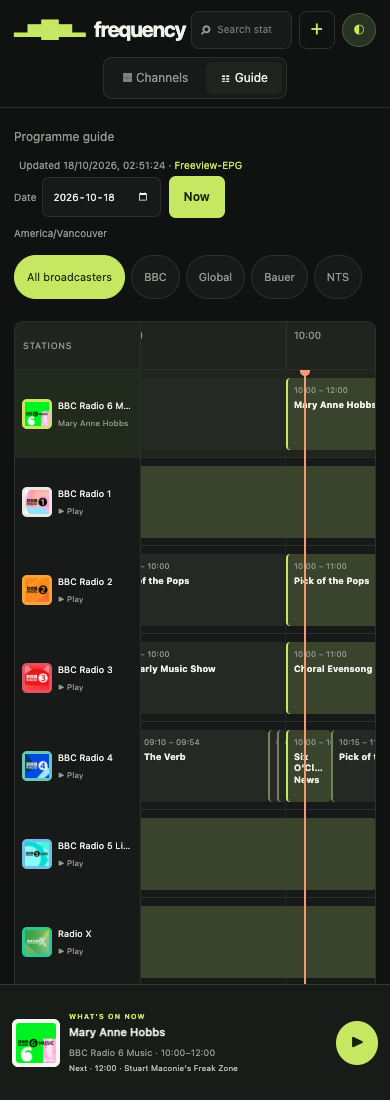
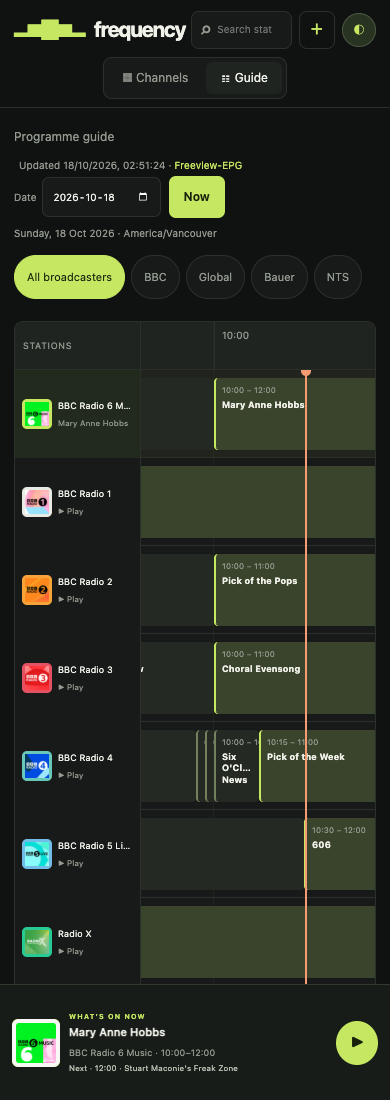
Reset the guide timeline when its date changes

diff --git a/app/public/entry.tsx b/app/public/entry.tsx
@@ -35,7 +35,7 @@ function App(handle: Handle) {
   let playbackState:PlaybackState={status:'idle',message:''}
   let favouritesDialog:HTMLDialogElement, programmeDialog:HTMLDialogElement
   let schedules:Schedule[]=[], scheduleLoading=true, scheduleFailed=false, clock=Date.now(), guideDate=dateInput(), programme:Programme|null=null
-  let timeline:HTMLDivElement|undefined, positionTimeline=false, metadataKey=''
+  let timeline:HTMLDivElement|undefined, metadataKey=''
   const firstUse=loadSaved('frequency.favourites',null)===null && !loadSaved('frequency.favouritesSetup',false)
   let initialized=false
   const time=(value:number)=>new Date(value).toLocaleTimeString([], {hour:'2-digit',minute:'2-digit'})
@@ -59,14 +59,16 @@ function App(handle: Handle) {
     const artwork=current?.artwork??selected.logoUrl
     navigator.mediaSession.metadata=new MediaMetadata({title:current?.title??selected.title,artist:selected.title,artwork:artwork?[{src:new URL(artwork,document.baseURI).href}]:[]})
   }
-  function changeView(next:string){view=next;if(next==='Guide')positionTimeline=true;update()}
-  function jumpNow(){guideDate=dateInput();positionTimeline=true;update()}
+  function changeView(next:string){view=next;const refreshed=update();if(next==='Guide')void refreshed.then(positionGuideDate)}
+  function selectGuideDate(value:string){if(!value)return;guideDate=value;void update().then(positionGuideDate)}
+  function jumpNow(){guideDate=dateInput();void update().then(positionGuideDate)}
   function positionAtNow(){
     if(!timeline)return
     const stationColumn=Number.parseFloat(getComputedStyle(document.documentElement).getPropertyValue('--station-column'))||220
     const inset=Math.min(300,Math.max(60,(timeline.clientWidth-stationColumn)*0.7))
     timeline.scrollLeft=Math.max(0,(Date.now()-localDay(guideDate).start)*180/3600000-inset)
   }
+  function positionGuideDate(){requestAnimationFrame(()=>{if(!timeline)return;if(guideDate===dateInput())positionAtNow();else timeline.scrollLeft=0})}
   function showProgramme(value:Programme){programme=value;void update().then(()=>programmeDialog.showModal())}
   function playProgramme(){const activeProgramme=programme;if(!activeProgramme)return;const station=allItems().find(i=>i.id===activeProgramme.stationId);if(station)void play(station)}
   function scheduleText(id:string){return info(id).current?.title??(scheduleLoading?'Loading schedule…':'Schedule unavailable')}
@@ -183,8 +185,8 @@ function App(handle: Handle) {
       {view==='Channels'?<div>
         <section class="favourites-section"><div class="section-heading"><h2>Favourites <span class="section-count">{favouritesList.length}</span></h2><button class="quiet-action" mix={on('click',()=>favouritesDialog.showModal())}>Edit favourites</button></div>{favouritesList.length?<div class="favourites-grid">{favouritesList.map(card)}</div>:<button class="favourites-empty" mix={on('click',()=>favouritesDialog.showModal())}>♡ <span>Add favourites <small>Choose stations for quick access.</small></span><span>＋</span></button>}</section>
         <section><div class="section-heading"><h2>Stations</h2><span class="section-count">{live.filter(i=>!favourites.includes(i.id)).length}</span></div>{filters()}<div class="card-grid">{live.filter(i=>!favourites.includes(i.id)).map(card)}</div>{!live.length?<p class="empty-message">No stations match your search.</p>:null}</section>
-      </div>:<section class="guide"><div class="guide-controls"><label>Date <input aria-label="Guide date" type="date" value={guideDate} mix={on('change',e=>{if(e.currentTarget.value){guideDate=e.currentTarget.value;positionTimeline=true;update()}})}/></label><button class="primary" mix={on('click',jumpNow)}>Now</button><span>{timezone}</span></div>{filters()}
-        <div class="timeline" aria-label="Station schedule timeline" tabIndex={0} mix={[ref(node=>{timeline=node;if(positionTimeline){positionTimeline=false;requestAnimationFrame(()=>{if(timeline){if(guideDate===dateInput())positionAtNow();else timeline.scrollLeft=0}})}}),on('keydown',event=>{if(event.target===event.currentTarget&&['ArrowLeft','ArrowRight'].includes(event.key)){event.preventDefault();event.stopPropagation();event.currentTarget.scrollLeft+=event.key==='ArrowRight'?180:-180}})]}>
+      </div>:<section class="guide"><div class="guide-controls"><label>Date <input aria-label="Guide date" type="date" value={guideDate} mix={on('change',e=>selectGuideDate(e.currentTarget.value))}/></label><button class="primary" mix={on('click',jumpNow)}>Now</button><span class="date-summary">{new Date(day.start).toLocaleDateString([], {weekday:'long',month:'short',day:'numeric',year:'numeric'})} · {timezone}</span></div>{filters()}
+        <div class="timeline" aria-label="Station schedule timeline" tabIndex={0} mix={[ref(node=>{timeline=node}),on('keydown',event=>{if(event.target===event.currentTarget&&['ArrowLeft','ArrowRight'].includes(event.key)){event.preventDefault();event.stopPropagation();event.currentTarget.scrollLeft+=event.key==='ArrowRight'?180:-180}})]}>
           <div class="timeline-content" style={{width:`calc(var(--station-column) + ${width}px)`}}><div class="timeline-header"><div class="station-heading">Stations</div><div class="time-ruler" style={{width:`${width}px`}}>{hours.map(hour=><span key={hour} style={{left:`${(hour-day.start)*scale}px`}}>{time(hour)}</span>)}</div></div>
           {rows.map(item=>{const listings=programmes().filter(p=>p.stationId===item.id&&p.end>day.start&&p.start<day.end);const stationInfo=info(item.id);return <div class={selected?.id===item.id?'timeline-row active':'timeline-row'} key={item.id}><button class="station-cell" aria-label={(item.streamUrl?'Play ':'Open ')+item.title} mix={on('click',()=>play(item))}><span class="station-thumb" style={{background:item.color}}>{artwork(item)}</span><span>{item.title}<small>{selected?.id===item.id?stationInfo.current?.title??(playing?'Playing':'Selected'):favourites.includes(item.id)?'♥ Favourite':item.streamUrl?'▶ Play':'↗ Official'}</small></span></button><div class="programme-track" style={{width:`${width}px`}}>{listings.map(p=><button key={`${p.stationId}:${p.start}`} class={p.start<=clock&&p.end>clock?'programme current':'programme'} style={{left:`${(Math.max(p.start,day.start)-day.start)*scale}px`,width:`${(Math.min(p.end,day.end)-Math.max(p.start,day.start))*scale}px`}} aria-label={`${p.title}, ${time(p.start)} to ${time(p.end)}`} mix={on('click',()=>showProgramme(p))}><small>{time(p.start)} – {time(p.end)}</small><strong>{p.title}</strong></button>)}{!listings.length?<div class="schedule-empty">{scheduleLoading?'Loading schedule…':'No listings for this date'}{item.scheduleUrl?destination(item,item.scheduleUrl,'Official schedule'):null}</div>:null}</div></div>})}
           {clock>=day.start&&clock<day.end?<div class="now-line" style={{left:`calc(var(--station-column) + ${(clock-day.start)*scale}px)`}} aria-hidden="true"/>:null}</div></div>{!rows.length?<p class="empty-message">No stations match your search.</p>:null}
